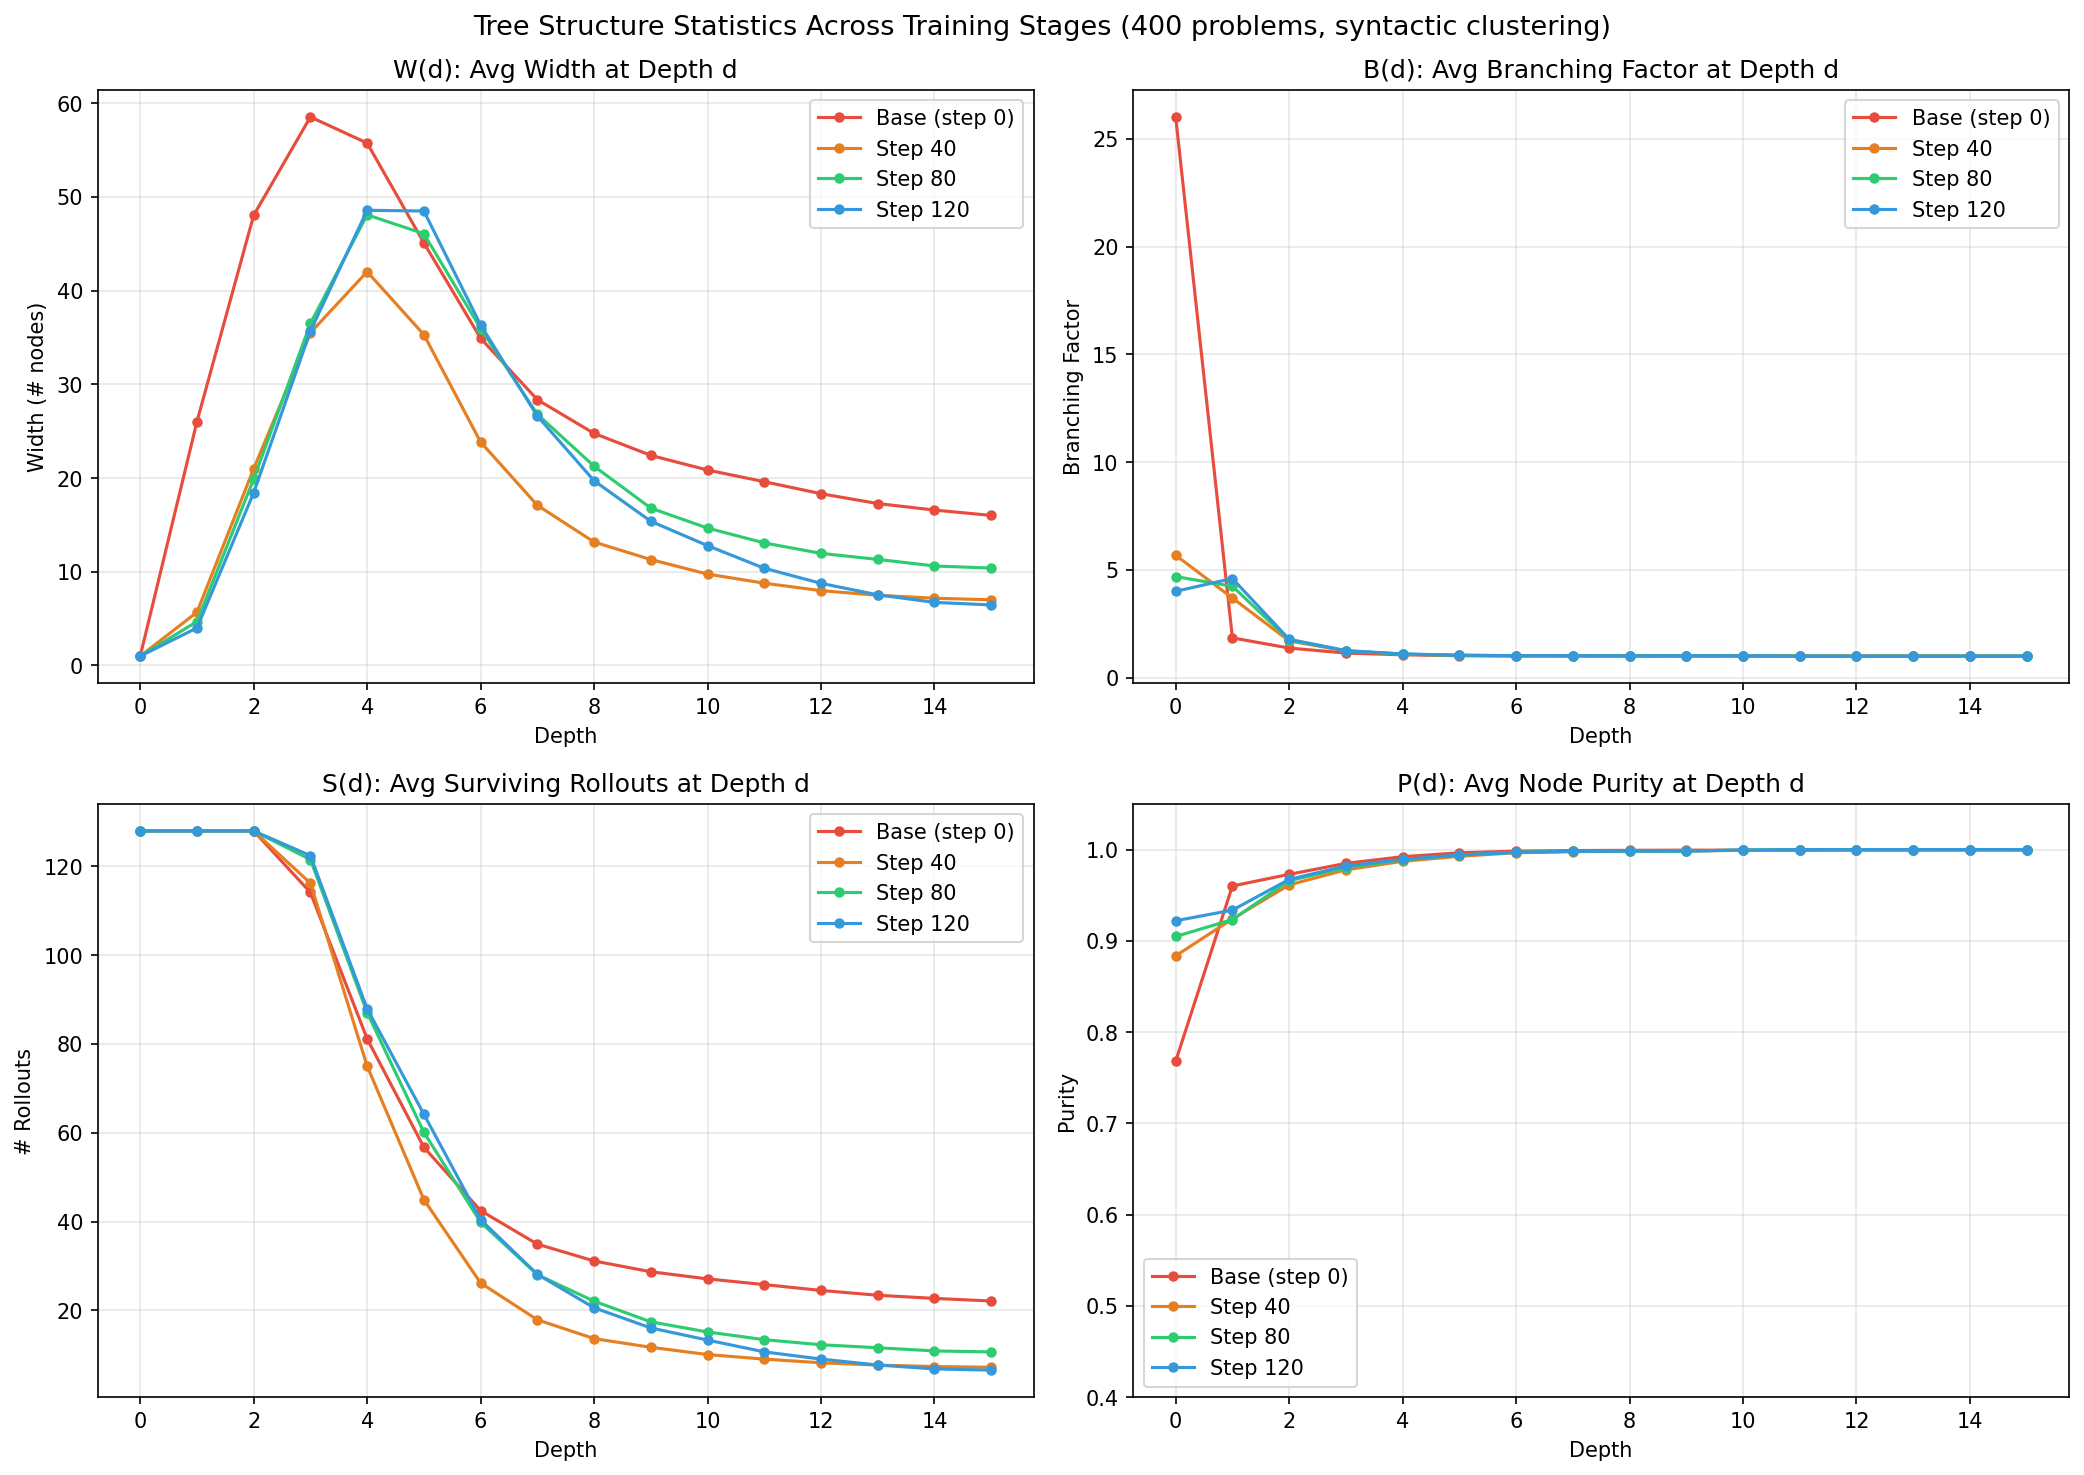
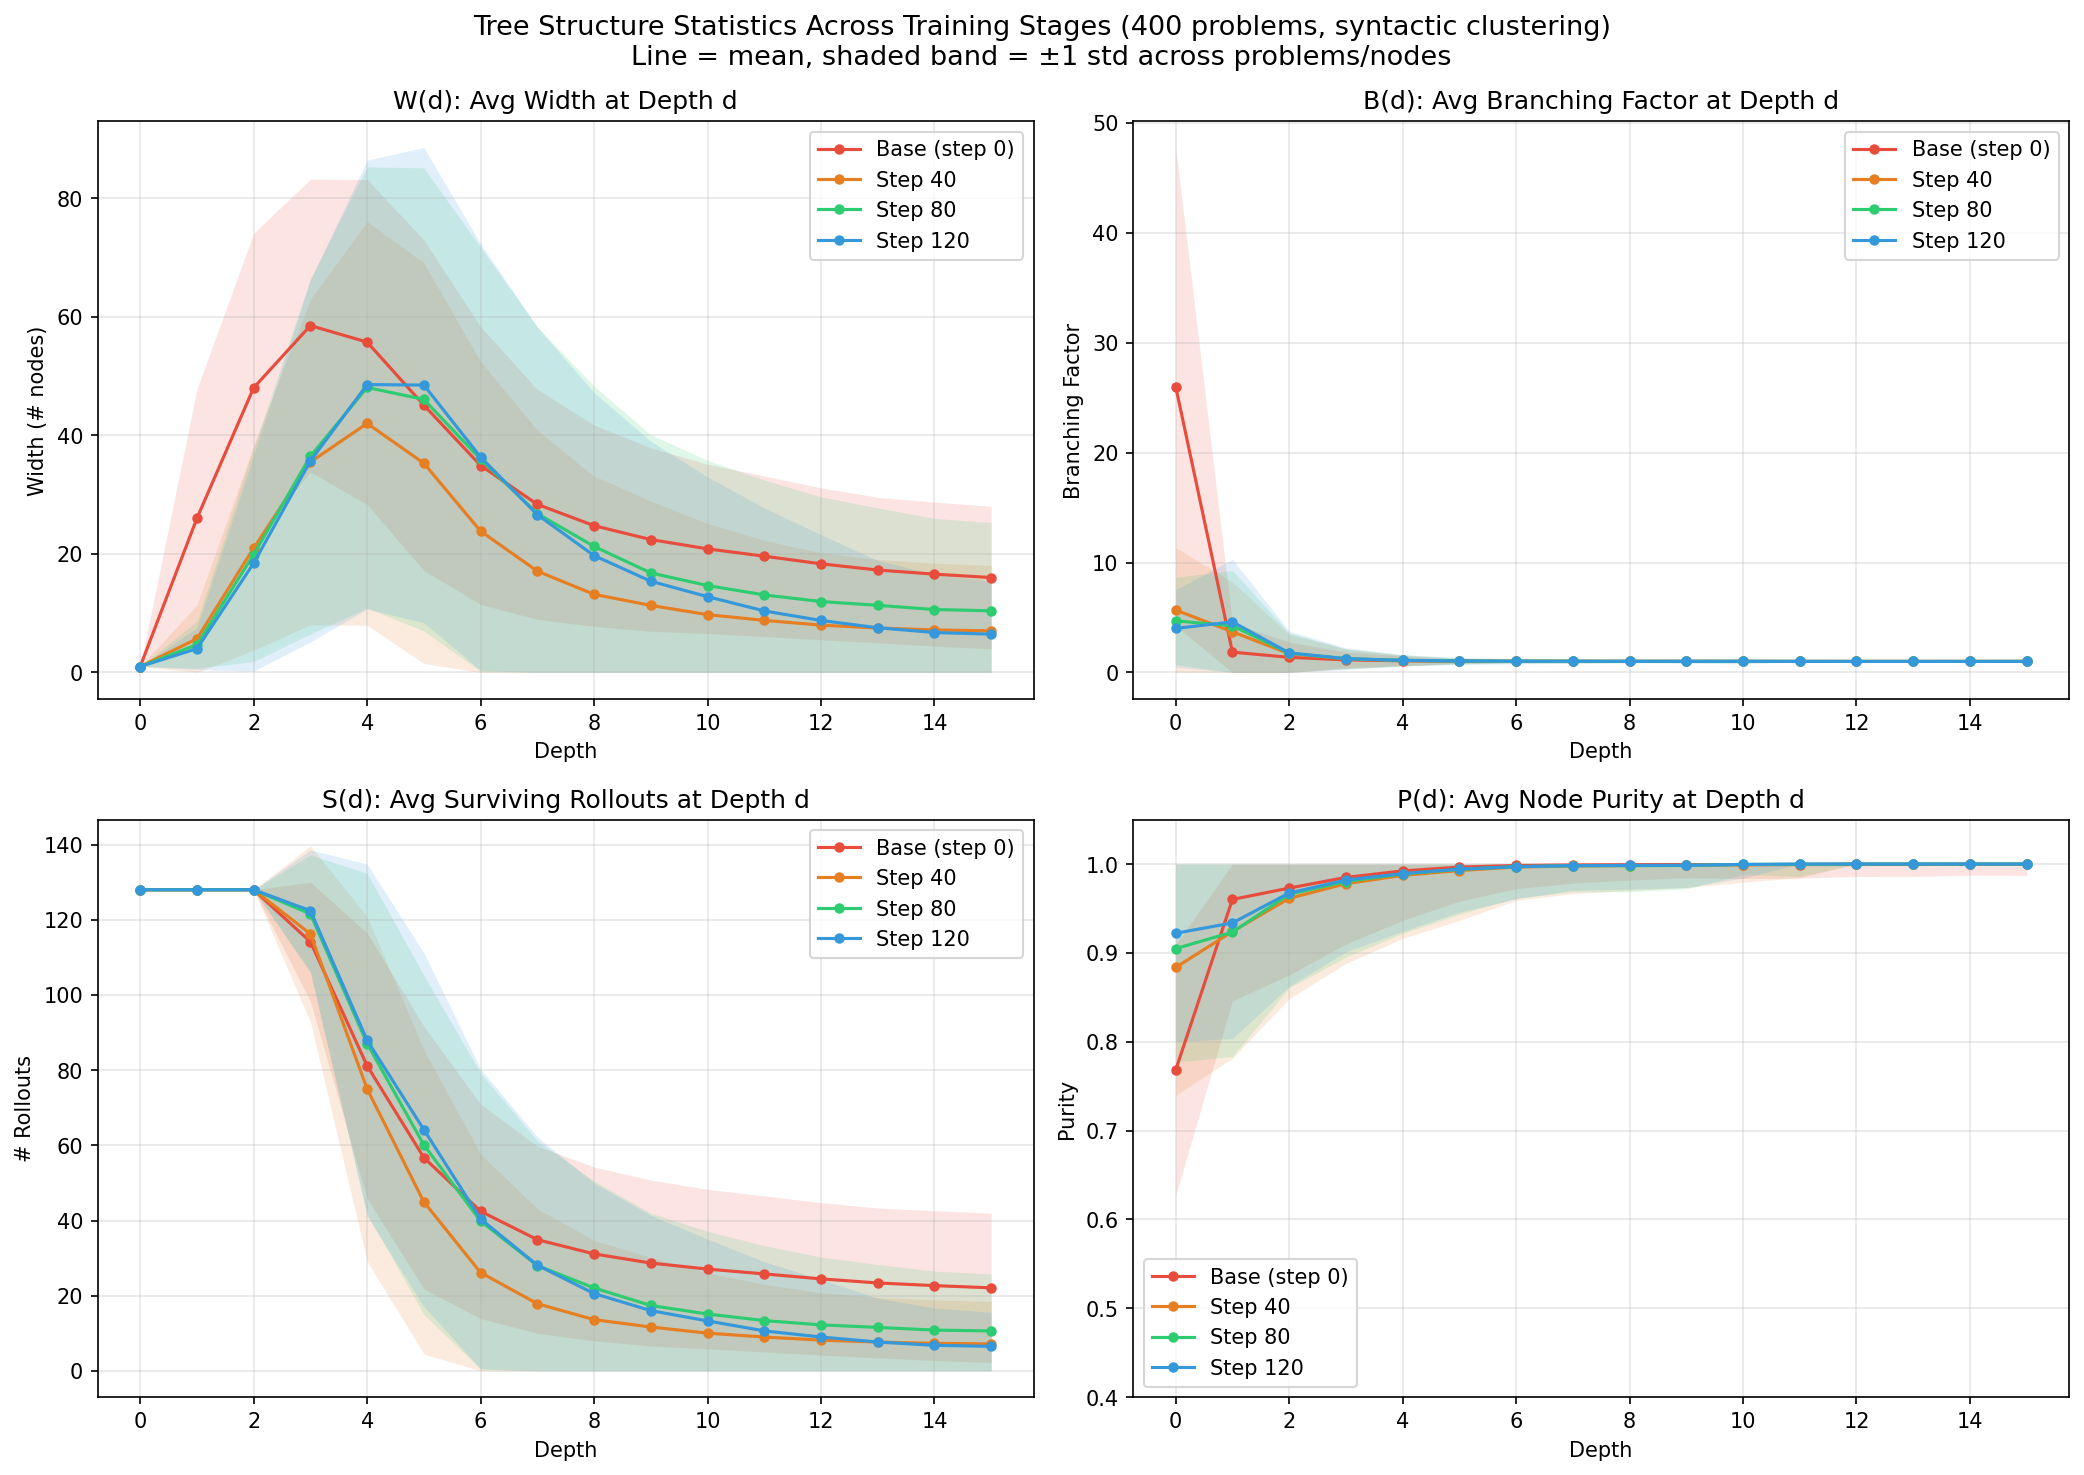
Add ±1 std shaded bands to WBSP curves (ROADMAP item #3)
Qirong asked for "violin-like" visualization on the W/B/S/P curves so
readers can see cross-problem variance, not just the mean. All four
subplots now draw a shaded band at mean±1 std alongside the line.
The D(0) branching-factor band is much wider than the mean, which
visually confirms the heavy-tailed NegBin fit motivating the rename.

diff --git a/faithful_baseline/analyze_branching_factors.py b/faithful_baseline/analyze_branching_factors.py
@@ -168,21 +168,51 @@ def main():
         agg = all_results[stage]
         depths = sorted(d for d in agg.keys() if d <= max_depth_to_plot)
 
-        # W(d) - average width
-        w_vals = [np.mean(agg[d]["widths"]) for d in depths]
+        def mean_std(vals):
+            if not vals:
+                return 0.0, 0.0
+            return float(np.mean(vals)), float(np.std(vals))
+
+        w_stats = [mean_std(agg[d]["widths"]) for d in depths]
+        w_vals = [m for m, _ in w_stats]
+        w_err = [s for _, s in w_stats]
         axes[0, 0].plot(depths, w_vals, "o-", color=colors[stage], label=labels[stage], markersize=4)
+        axes[0, 0].fill_between(
+            depths,
+            [max(0, m - s) for m, s in w_stats],
+            [m + s for m, s in w_stats],
+            color=colors[stage], alpha=0.15, linewidth=0,
+        )
 
-        # B(d) - average branching factor
-        b_vals = [np.mean(agg[d]["branching_factors"]) if agg[d]["branching_factors"] else 0 for d in depths]
+        b_stats = [mean_std(agg[d]["branching_factors"]) for d in depths]
+        b_vals = [m for m, _ in b_stats]
         axes[0, 1].plot(depths, b_vals, "o-", color=colors[stage], label=labels[stage], markersize=4)
+        axes[0, 1].fill_between(
+            depths,
+            [max(0, m - s) for m, s in b_stats],
+            [m + s for m, s in b_stats],
+            color=colors[stage], alpha=0.15, linewidth=0,
+        )
 
-        # S(d) - average surviving rollouts
-        s_vals = [np.mean(agg[d]["surviving"]) for d in depths]
+        s_stats = [mean_std(agg[d]["surviving"]) for d in depths]
+        s_vals = [m for m, _ in s_stats]
         axes[1, 0].plot(depths, s_vals, "o-", color=colors[stage], label=labels[stage], markersize=4)
+        axes[1, 0].fill_between(
+            depths,
+            [max(0, m - s) for m, s in s_stats],
+            [m + s for m, s in s_stats],
+            color=colors[stage], alpha=0.15, linewidth=0,
+        )
 
-        # P(d) - average purity
-        p_vals = [np.mean(agg[d]["purities"]) if agg[d]["purities"] else 0.5 for d in depths]
+        p_stats = [mean_std(agg[d]["purities"]) if agg[d]["purities"] else (0.5, 0.0) for d in depths]
+        p_vals = [m for m, _ in p_stats]
         axes[1, 1].plot(depths, p_vals, "o-", color=colors[stage], label=labels[stage], markersize=4)
+        axes[1, 1].fill_between(
+            depths,
+            [max(0, m - s) for m, s in p_stats],
+            [min(1, m + s) for m, s in p_stats],
+            color=colors[stage], alpha=0.15, linewidth=0,
+        )
 
     axes[0, 0].set_title("W(d): Avg Width at Depth d")
     axes[0, 0].set_xlabel("Depth")
@@ -209,7 +239,7 @@ def main():
     axes[1, 1].legend()
     axes[1, 1].grid(True, alpha=0.3)
 
-    fig.suptitle("Tree Structure Statistics Across Training Stages (400 problems, syntactic clustering)", fontsize=13)
+    fig.suptitle("Tree Structure Statistics Across Training Stages (400 problems, syntactic clustering)\nLine = mean, shaded band = ±1 std across problems/nodes", fontsize=13)
     plt.tight_layout()
     plt.savefig(os.path.join(output_dir, "tree_curves_WBSP.png"), dpi=150, bbox_inches="tight")
     print(f"\nSaved tree_curves_WBSP.png")
